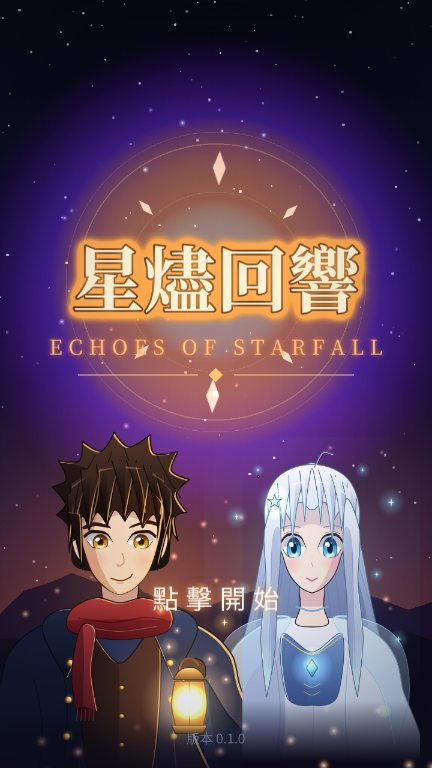
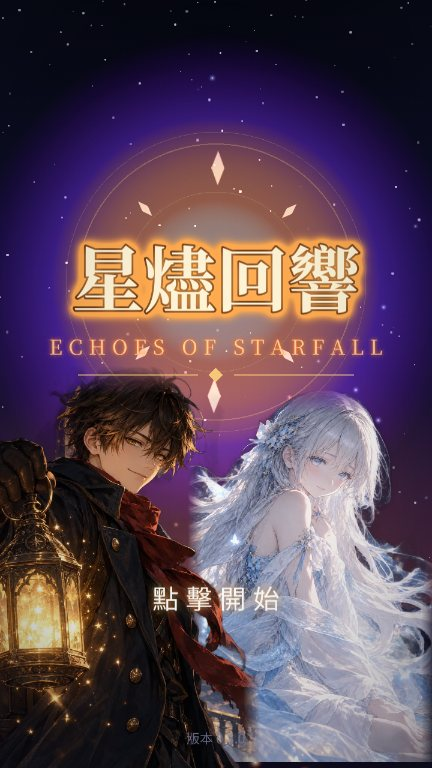
art: 連恩戰鬥背影外套改黑色（對齊手繪立繪）；README 截圖改用手繪立繪版本
Claude-Session: https://claude.ai/code/session_016nUoDCqCDbYg4WJ5BqxbAh

diff --git a/src/game/art/animeSprites.ts b/src/game/art/animeSprites.ts
@@ -31,7 +31,7 @@ export function backLian(c: C): void {
   // 大衣
   const coat = curve([[42, 82], [86, 82], [98, 120], [106, 194], [66, 186], [22, 194], [32, 120]]);
   part(c, coat, {
-    fill: vgrad(c, 80, 196, [[0, '#2c3a68'], [1, '#0e1430']]),
+    fill: vgrad(c, 80, 196, [[0, '#3a3236'], [1, '#100c10']]),
     shadow: curve([[20, 80], [60, 80], [56, 200], [10, 200]]), shadowColor: 'rgba(0,0,10,0.4)',
     rim: [-2, 1, 'rgba(255,196,120,0.95)'], ink: INK, inkW: 1.2,
     extra: () => {
@@ -42,7 +42,7 @@ export function backLian(c: C): void {
   });
   // 舉燈的右臂
   const arm = curve([[78, 88], [90, 84], [108, 66], [104, 60], [84, 76], [74, 92]]);
-  part(c, arm, { fill: '#26335c', rim: [-1, 1.5, 'rgba(255,210,140,1)'], ink: INK, inkW: 1.1 });
+  part(c, arm, { fill: '#2e282c', rim: [-1, 1.5, 'rgba(255,210,140,1)'], ink: INK, inkW: 1.1 });
   const hand = new Path2D(); hand.arc(106, 63, 4, 0, Math.PI * 2);
   part(c, hand, { fill: '#5a3a26', ink: INK, inkW: 1 });
   // 圍巾＋飄帶
